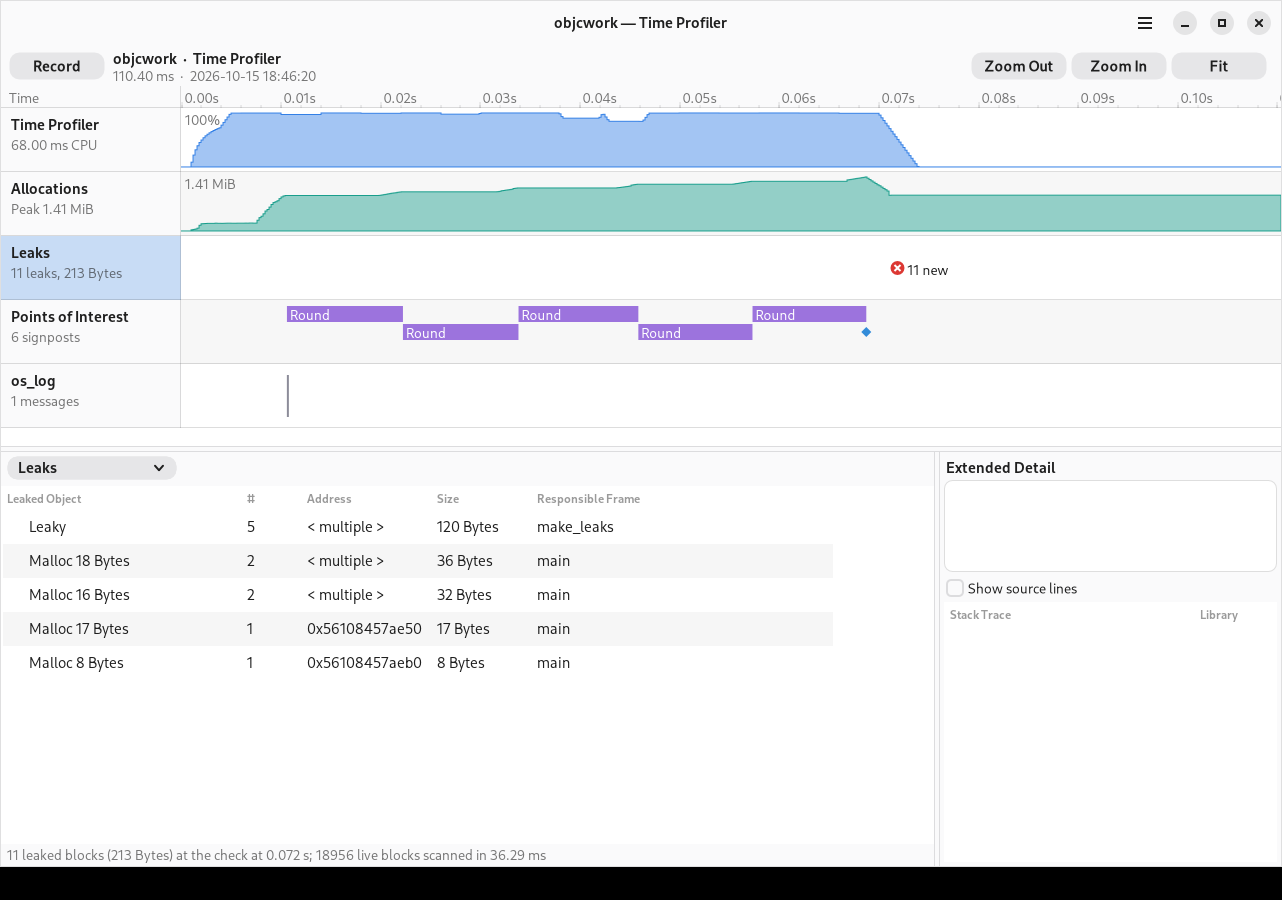
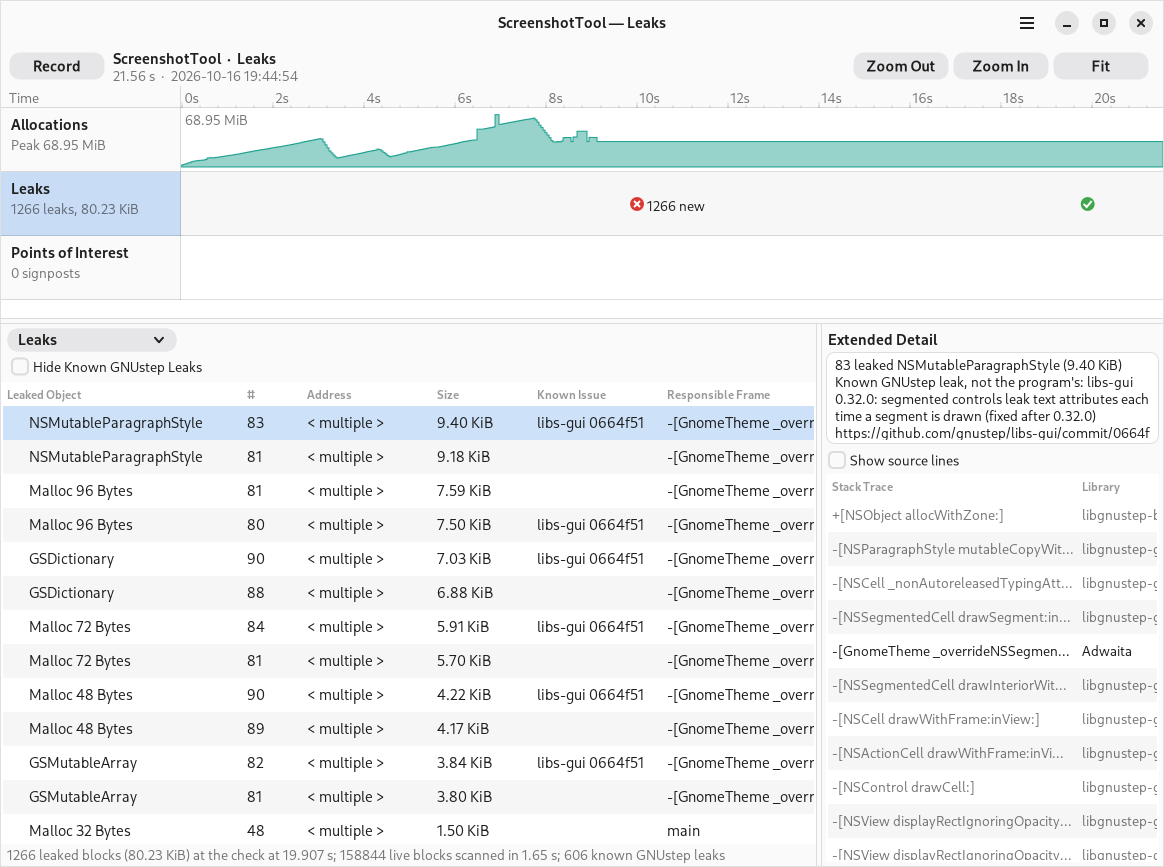
Leaks list: Known Issue before Responsible Frame; new screenshot
In a narrower window the Known Issue column was pushed past the right
edge by the wide Responsible Frame column; it now comes right after
Size. The README's Leaks screenshot is a recording of ScreenshotTool,
with known GNUstep leaks labelled (checked under Adwaita and Sombre).

diff --git a/Dashboard/PDDetailController.m b/Dashboard/PDDetailController.m
@@ -823,7 +823,7 @@ col(NSString *ident, NSString *title, CGFloat width)
   la.hidesKnownLeaks = PDIsOn(_hideKnown);
   [self setColumns: [NSArray arrayWithObjects: col(@"object", @"Leaked Object", 240),
     col(@"count", @"#", 60), col(@"address", @"Address", 130), col(@"size", @"Size", 100),
-    col(@"caller", @"Responsible Frame", 240), col(@"known", @"Known Issue", 120), nil]
+    col(@"known", @"Known Issue", 130), col(@"caller", @"Responsible Frame", 300), nil]
            outline: nil];
   for (GSPLeakGroup *g in [la groupsForSnapshot: snap])
     {

diff --git a/README.md b/README.md
@@ -108,7 +108,7 @@ traces, speedscope profiles, folded stacks or CSV.
 
 | | |
 |---|---|
-| ![Allocations](docs/screenshots/allocations.png) | ![Leaks](docs/screenshots/leaks.png) |
+| ![Allocations](docs/screenshots/allocations.png) | ![Leaks, with known GNUstep leaks labelled (a recording of ScreenshotTool)](docs/screenshots/leaks.png) |
 | ![Inspection range](docs/screenshots/inspection-range.png) | ![Sombre theme](docs/screenshots/sombre-theme.png) |
 
 ## Using gstrace
